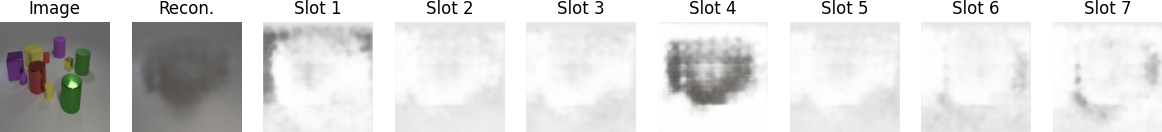
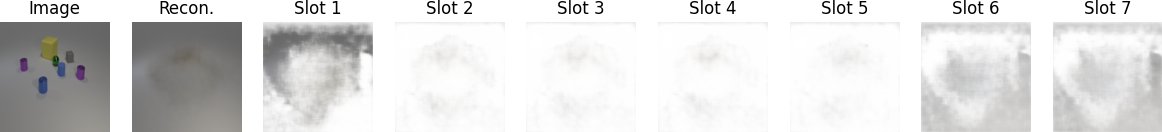
update

diff --git a/model_m1.py b/model_m1.py
@@ -3,14 +3,16 @@ import numpy as np
 from torch import nn
 import torch
 import torch.nn.functional as F
+import matplotlib.pyplot as plt
+from PIL import Image as Image, ImageEnhance
 
 device = torch.device("cuda" if torch.cuda.is_available() else "cpu")
 
 class EncoderPosEmbedding(nn.Module):
     def __init__(self, dim, resolution, hidden_dim=128, scale_factor=5):
         super().__init__()
-        self.grid = build_grid(resolution, single=True)
-        self.grid_embed = nn.Linear(4, dim, bias=True)
+        self.grid = build_grid(resolution, single=True) # (1, h, w, 2)
+        self.grid_embed = nn.Linear(2, dim, bias=True)
         self.input_to_k = nn.Linear(dim, dim, bias=False)
         self.input_to_v = nn.Linear(dim, dim, bias=False)
 
@@ -36,7 +38,7 @@ class EncoderPosEmbedding(nn.Module):
         position = position.view(b, n, 1, 1, 2)
         # position = position.repeat(1, 1, h, w, 1)
         scale = scale.view(b, n, 1, 1, 2)
-        return ((grid - position) / (scale * self.scale_factor + 1e-8))
+        return ((grid - position) / (scale * self.scale_factor + 1e-8)) # (b, n, h, w, 2)
 
     def forward(self, x, position_latent=None, scale_latent=None):
 
@@ -47,7 +49,9 @@ class EncoderPosEmbedding(nn.Module):
             rel_grid = self.apply_rel_position_scale(self.grid, position_latent, scale_latent)
         else:
             rel_grid = self.grid
-        rel_grid = torch.cat([rel_grid, -rel_grid], dim=-1).flatten(-3, -2) # (b, n, h*w, 4)
+        rel_grid = rel_grid.flatten(-3, -2)
+
+        # rel_grid = torch.cat([rel_grid, -rel_grid], dim=-1).flatten(-3, -2) # (b, n, h*w, 4)
 
         grid_embed = self.grid_embed(rel_grid) # (b, n, h*w, d)
 
@@ -59,7 +63,7 @@ class EncoderPosEmbedding(nn.Module):
 class DecoderPosEmbedding(nn.Module):
     def __init__(self, resolution=(8, 8), hidden_dim=128, scale_factor=5):
         super().__init__()
-        self.grid_embed = nn.Linear(4, hidden_dim, bias=True)
+        self.grid_embed = nn.Linear(2, hidden_dim, bias=True)
         self.grid = build_grid(resolution, single=True) # (1, h, w, 2)
         self.scale_factor = scale_factor
 
@@ -82,7 +86,7 @@ class DecoderPosEmbedding(nn.Module):
         position_latent: (b, n_s, 2)
         '''
         rel_grid = self.apply_rel_position_scale(self.grid, position_latent, scale_latent) # (bns, h, w, 2)
-        rel_grid = torch.cat([rel_grid, -rel_grid], dim=-1) # (bns, h, w, 4)
+        # rel_grid = torch.cat([rel_grid, -rel_grid], dim=-1) # (bns, h, w, 4)
         grid_embed = self.grid_embed(rel_grid) # (bns, h, w, d)
         # print(x.shape, grid_embed.shape)
         
@@ -110,7 +114,7 @@ class SlotAttention(nn.Module):
         self.slots_mu = nn.Parameter(torch.randn(1, 1, dim))
         self.slots_sigma = nn.Parameter(torch.rand(1, 1, dim))
 
-        self.to_q = nn.Linear(dim, dim)
+        self.to_q = nn.Linear(dim, dim, bias=False)
         # self.to_k = nn.Linear(dim, dim)
         # self.to_v = nn.Linear(dim, dim)
         
@@ -166,7 +170,7 @@ class SlotAttention(nn.Module):
 
             # update position and scale
             # first sum over the input dimension, output b, n_s, n_s, h*w
-            attn = attn / attn.sum(dim=-1, keepdim=True)
+            attn = attn / attn.sum(dim=(-2,-1), keepdim=True) # modified
             grid = self.grid.unsqueeze(1).expand(b, n_s, -1, -1) # (b, n_s, h*w, 2)
             position_latent = torch.einsum('bijk,bjkl->bil', attn, grid) # attn: (b, n, n, h*w), grid: (b, n, h*w, 2), output: (b, n, 2)
             rel_pos = grid - position_latent.unsqueeze(2).expand_as(grid) # grid: (b, n_s, h*w, 2), position_latent: (b, n_s, 1, 2), output: (b, n, h*w, 2)

diff --git a/utils.py b/utils.py
@@ -1,4 +1,8 @@
 import os
+from torchvision.transforms.functional import to_tensor, to_pil_image
+import numpy as np
+from PIL import Image
+import matplotlib.pyplot as plt
 
 class logger(object):
     def __init__(self, path):
@@ -8,3 +12,37 @@ class logger(object):
         print(msg)
         with open(os.path.join(self.path, "log.txt"), 'a') as f:
             f.write(msg + "\n")
+
+def visual(model, model_dir, epoch=0, num_slots=7):
+    image = Image.open('/viscam/data/clevr/train/images/CLEVR_train_000001.png').convert('RGB')
+    image = image.resize((128, 128))
+    image = to_tensor(image).cuda().unsqueeze(0)
+    fig, ax = plt.subplots(1, num_slots + 2, figsize=(15, 2))
+
+    recon_combined, recons, masks, slots = model(image)
+    
+    image = image.squeeze(0)
+    recon_combined = recon_combined.squeeze(0)
+    recons = recons.squeeze(0)
+    masks = masks.squeeze(0)
+    image = image.permute(1,2,0).cpu().numpy()
+    recon_combined = recon_combined.permute(1,2,0)
+    recon_combined = recon_combined.cpu().detach().numpy()
+    recons = recons.cpu().detach().numpy()
+    masks = masks.cpu().detach().numpy()
+
+    ax[0].imshow(image)
+    ax[0].set_title('Image')
+    ax[1].imshow(recon_combined)
+    ax[1].set_title('Recon.')
+
+    for i in range(7):
+        picture = recons[i] * masks[i] + (1 - masks[i])
+        ax[i + 2].imshow(picture)
+        ax[i + 2].set_title('Slot %s' % str(i + 1))
+    for i in range(len(ax)):
+        ax[i].grid(False)
+        ax[i].axis('off')
+
+    # save
+    fig.savefig(f'{model_dir}/visuals/epoch_{epoch}.png', bbox_inches='tight', pad_inches=0)

diff --git a/train_m1.py b/train_m1.py
@@ -7,8 +7,9 @@ import time
 import datetime
 import torch.optim as optim
 import torch
-from utils import logger
+from utils import logger, visual
 import math
+
 
 device = torch.device("cuda:0" if torch.cuda.is_available() else "cpu")
 
@@ -37,6 +38,7 @@ device = torch.device("cuda:0" if torch.cuda.is_available() else "cpu")
 opt.model_dir = os.path.join('experiments',opt.model_dir)
 os.makedirs(opt.model_dir, exist_ok=True)
 os.makedirs(os.path.join(opt.model_dir,'weights'), exist_ok=True)
+os.makedirs(os.path.join(opt.model_dir,'visuals'), exist_ok=True)
 
 log = logger(opt.model_dir)
 
@@ -91,17 +93,14 @@ while True:
 
     total_loss /= len(train_dataloader)
 
+    visual(model, opt.model_dir, epoch)
+
     log.info("Epoch: {}, Loss: {}, Time: {}".format(epoch, total_loss,
         datetime.timedelta(seconds=time.time() - start)))
 
     torch.save({
         'model_state_dict': model.state_dict(),
-        }, os.path.join(opt.model_dir, 'weights/model.ckpt'.format(epoch)))
-    
-    if i % 25000 == 0:
-        torch.save({
-            'model_state_dict': model.state_dict(),
-            }, os.path.join(opt.model_dir, 'weights/model_{}.ckpt'.format(i)))
+        }, os.path.join(opt.model_dir, 'weights/model_{}.ckpt'.format(epoch)))
         
     if i > opt.num_steps:
         break

diff --git a/eval_m1.py b/eval_m1.py
@@ -13,9 +13,10 @@ num_iterations = 3
 resolution = (128, 128)
 
 model = SlotAttentionAutoEncoder(resolution, num_slots, num_iterations, 64)
-model.load_state_dict(torch.load('./experiments/debut-m1/weights/model.ckpt')['model_state_dict'])
+model.load_state_dict(torch.load('./experiments/debut-m1/weights/model40.ckpt')['model_state_dict'])
 
-test_set = CLEVR(root='/viscam/data/clevr' ,split='test')
+test_set = CLEVR(root='/viscam/data/clevr' ,split='train')
+print('data loaded')
 
 model = model.to(device)
 image = test_set[2]['image']
